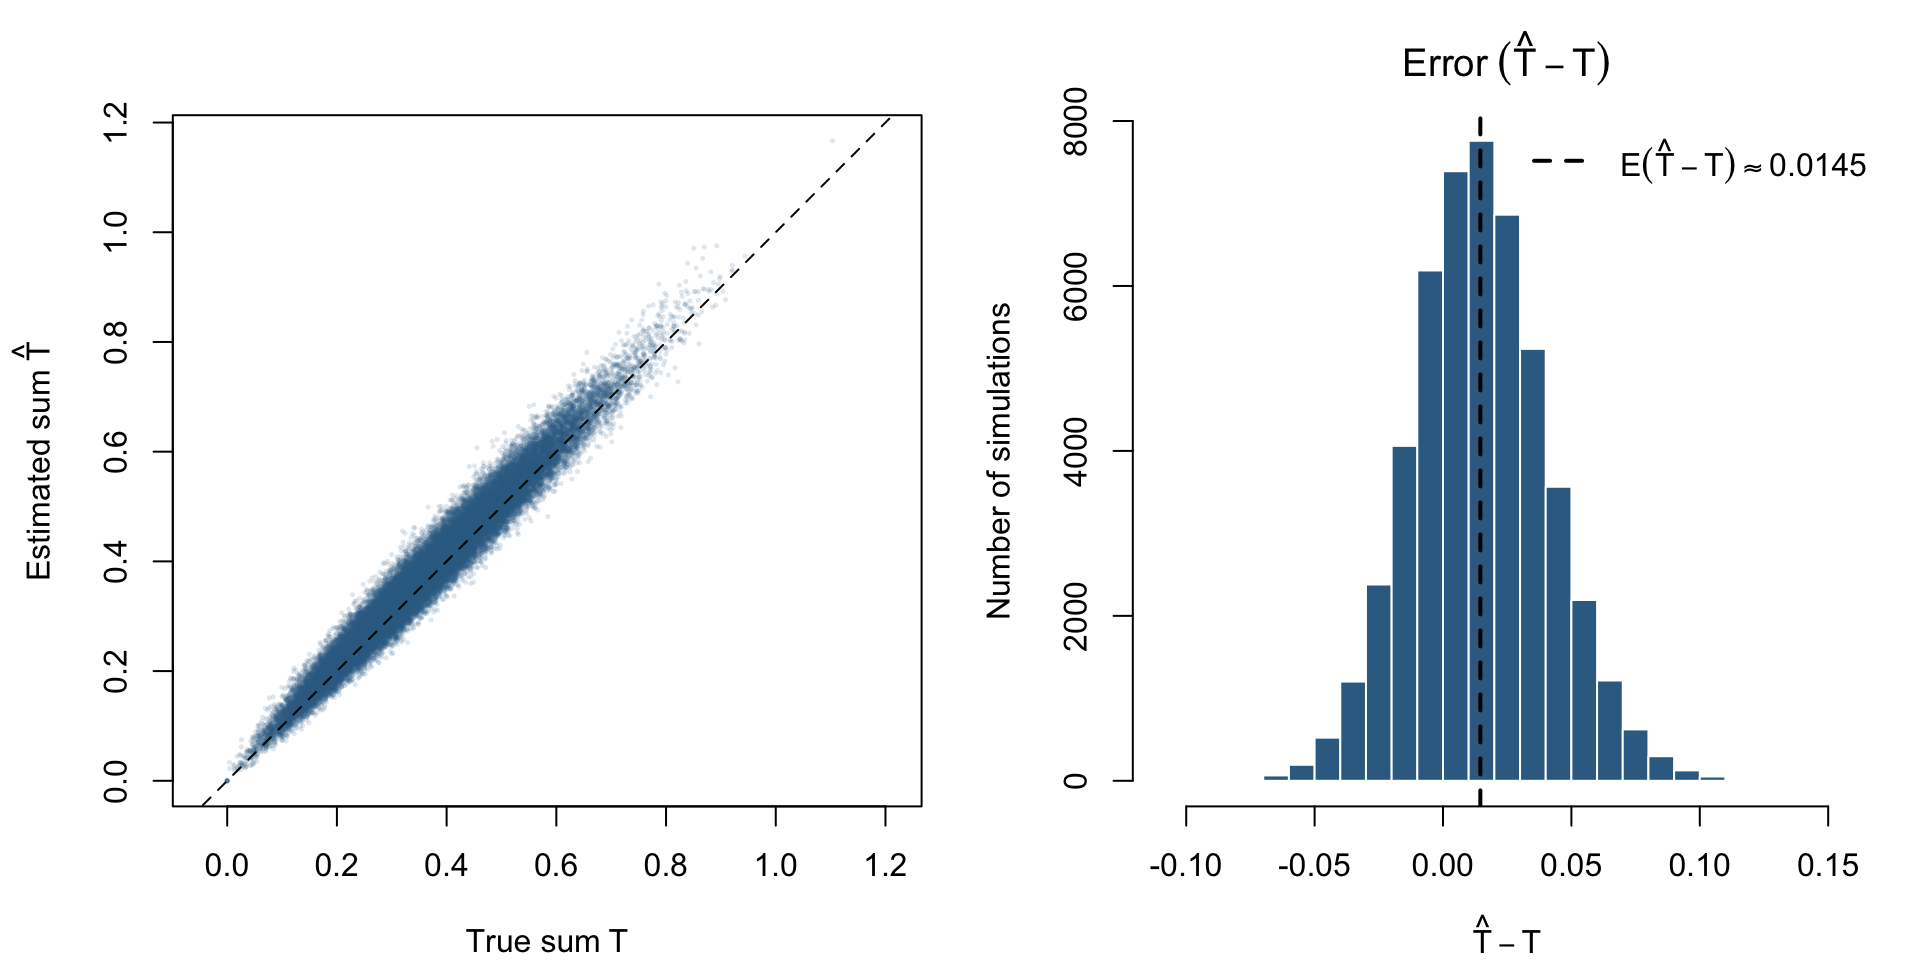
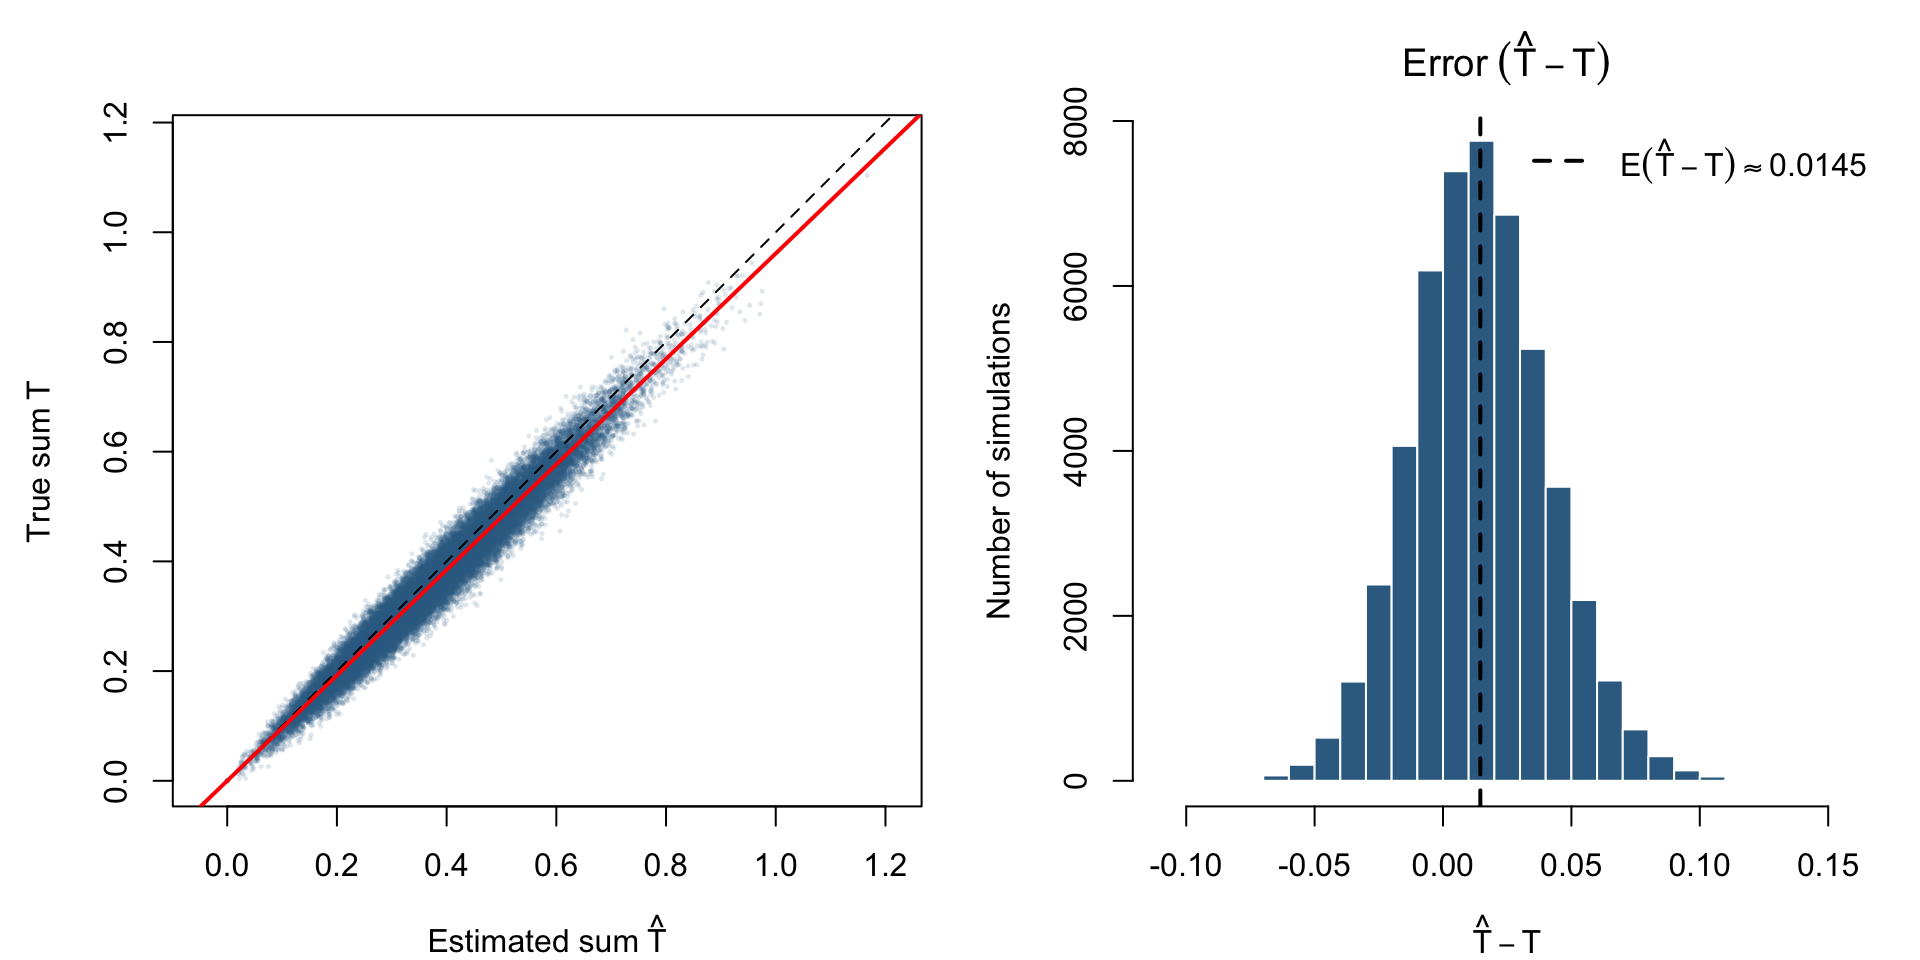
Update winner’s curse scatter plot

diff --git a/docs/posts/2026-11-26-winners/index.html b/docs/posts/2026-11-26-winners/index.html
@@ -257,7 +257,7 @@ E[\hat T-T]
 <div class="cell-output-display">
 <div class="quarto-figure quarto-figure-center">
 <figure class="figure">
-<figcaption>Across 50,000 simulations, each with 20 experiments, true effects are drawn from <span class="math inline">\(\mathcal{N}(0, 0.05^2)\)</span> and estimates are normally distributed around their true effects with standard error 0.01. Treatments are selected when their estimated effect exceeds 0.02. The dashed diagonal marks equal true and estimated sums; the dashed vertical line marks the mean error, an estimate of the expected error.</figcaption>
+<figcaption>Across 50,000 simulations, each with 20 experiments, true effects are drawn from <span class="math inline">\(\mathcal{N}(0, 0.05^2)\)</span> and estimates are normally distributed around their true effects with standard error 0.01. Treatments are selected when their estimated effect exceeds 0.02. The dashed diagonal marks equal true and estimated sums; the red line is a regression of the true sum on the estimated sum through the origin. The dashed vertical line marks the mean error, an estimate of the expected error.</figcaption>
 <p><img src="index_files/figure-html/unnamed-chunk-2-1.png" class="img-fluid figure-img" width="960"></p>
 </figure>
 </div>

diff --git a/docs/index.html b/docs/index.html
@@ -232,7 +232,7 @@ window.Quarto = {
 
 <div class="quarto-listing quarto-listing-container-default" id="listing-listing">
 <div class="list quarto-listing-default">
-<div class="quarto-post image-right" data-index="0" data-categories="" data-listing-date-sort="1795582800000" data-listing-file-modified-sort="1795670904708" data-listing-date-modified-sort="NaN" data-listing-reading-time-sort="5" data-listing-word-count-sort="898">
+<div class="quarto-post image-right" data-index="0" data-categories="" data-listing-date-sort="1795582800000" data-listing-file-modified-sort="1795796470009" data-listing-date-modified-sort="NaN" data-listing-reading-time-sort="5" data-listing-word-count-sort="927">
 <div class="thumbnail"><a href="./posts/2026-11-26-winners/index.html" class="no-external">
 
 <p class="card-img-top"><img loading='lazy' src="posts/2026-11-26-winners/index_files/figure-html/unnamed-chunk-2-1.png"  class="thumbnail-image card-img"/></p>
